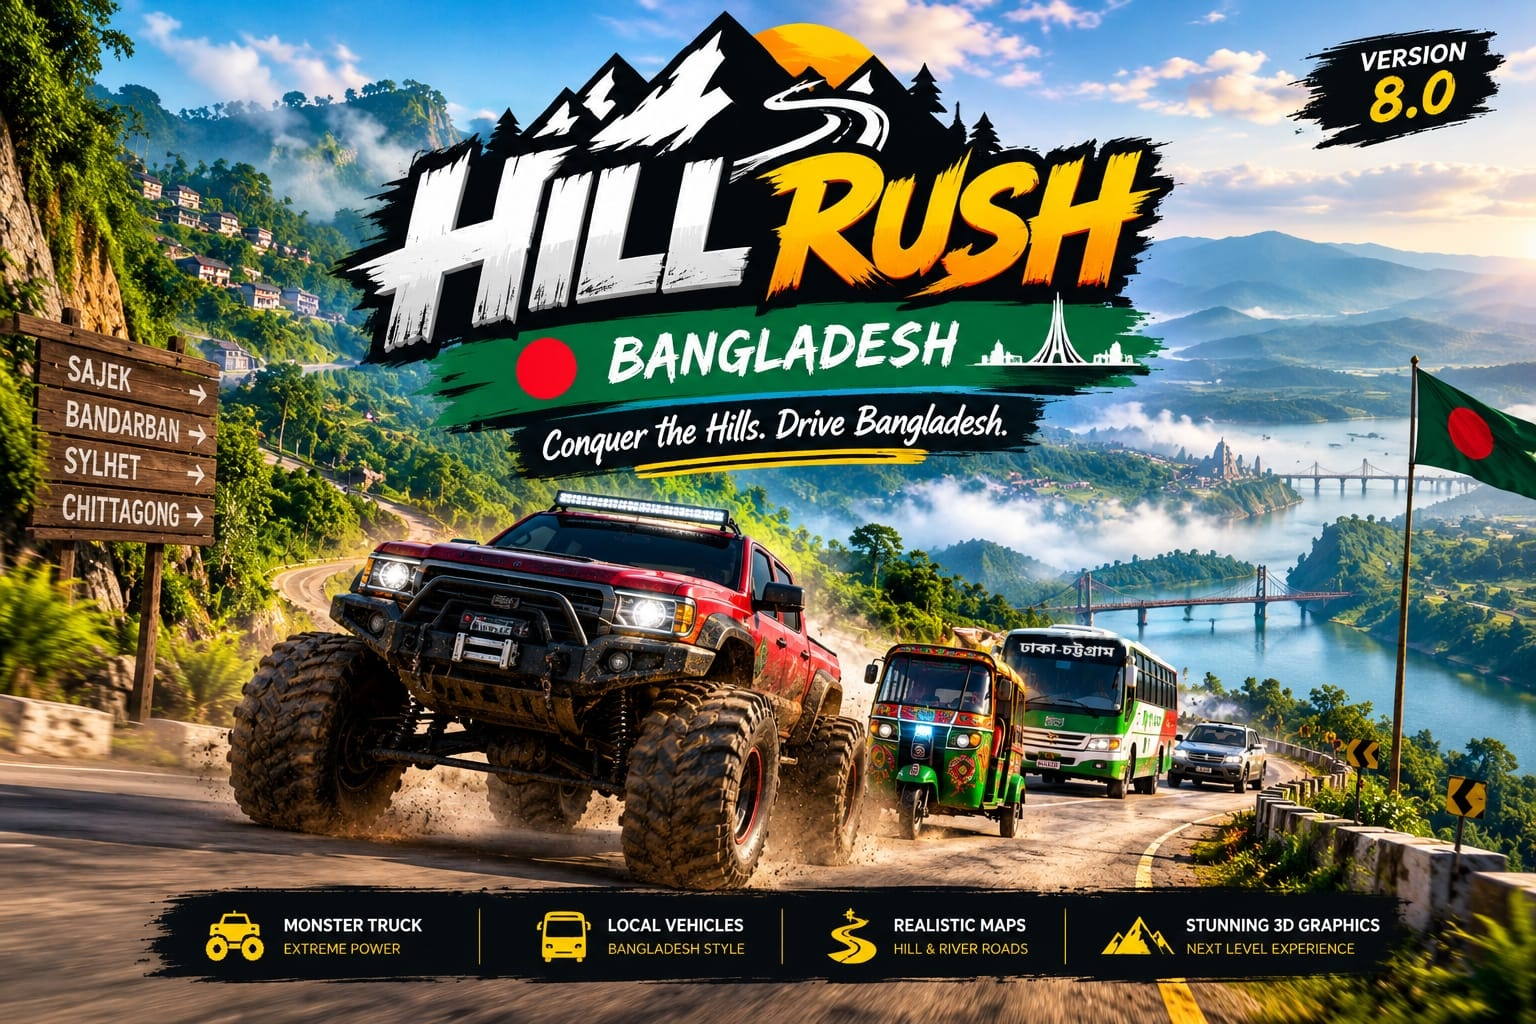
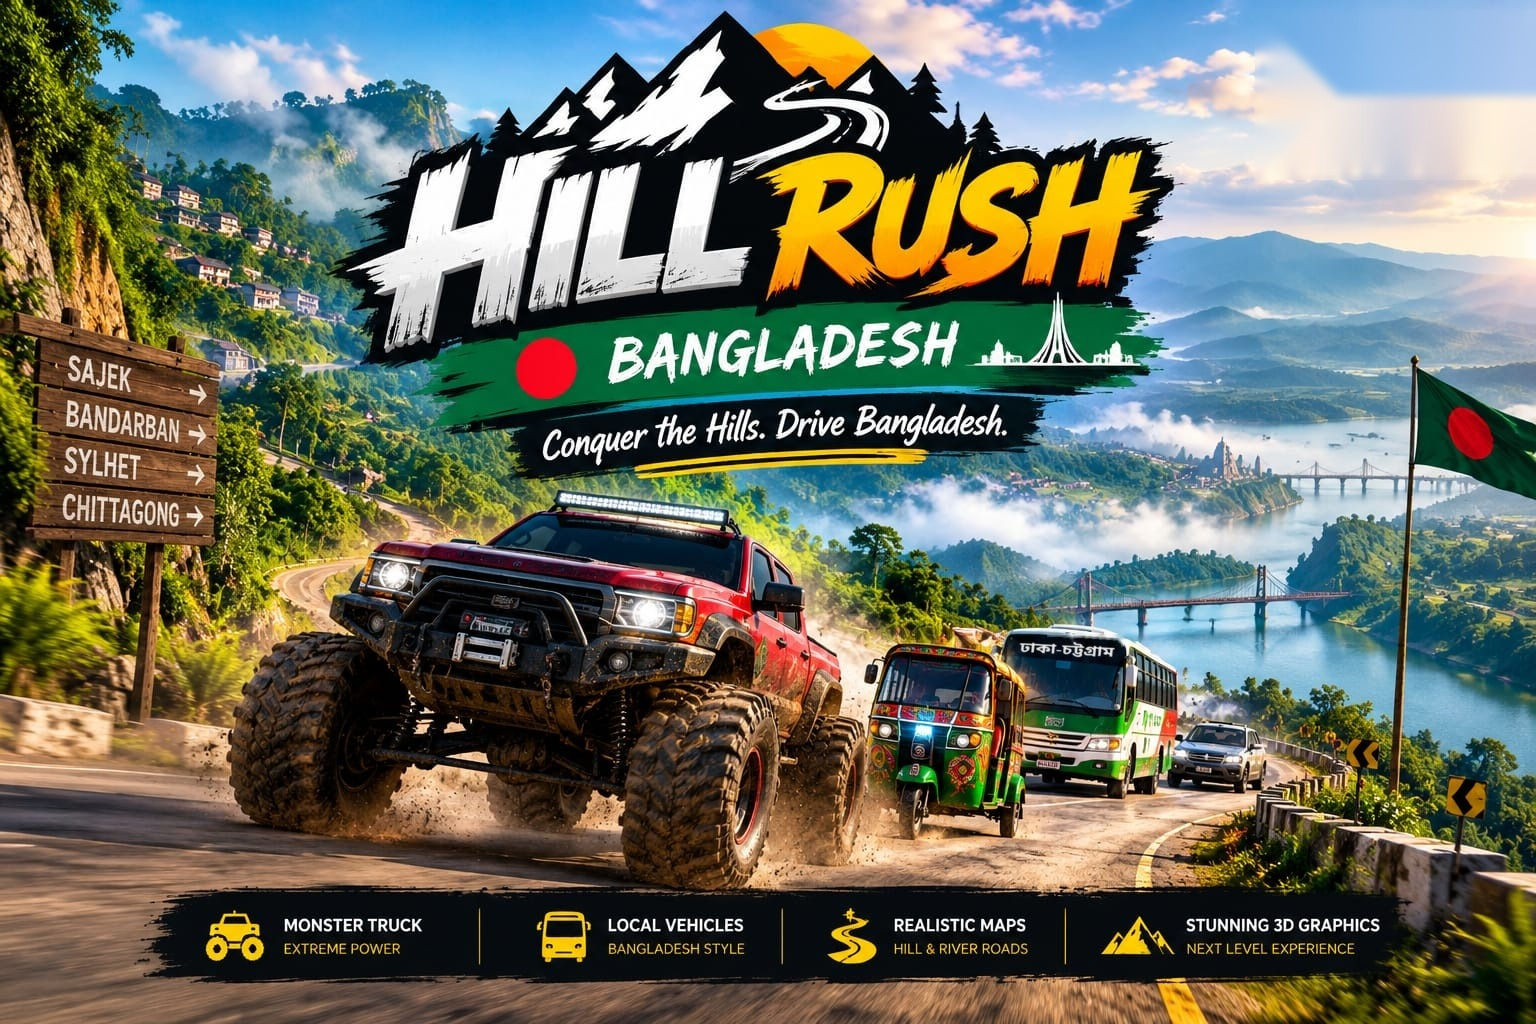
v12: চওড়া স্ক্রিনে ছবি ১২% বড়, পাশের ঝাপসা ভাব কমানো, পুরনো VERSION ব্যাজ সরানো
Claude-Session: https://claude.ai/code/session_01BE2JL8JqMqcX69xb2EwDrm

Changed region(s): [[0.8125, 0.0312, 1.0, 0.1875]]

diff --git a/style.css b/style.css
@@ -3379,3 +3379,22 @@ body #mainMenu .developerPlaque .supervisorName{
     z-index:1 !important;
   }
 }
+
+/* V12b — চওড়া স্ক্রিনে ছবি ১২% বড় (নিচ থেকে বসানো), তাই দুই পাশের বাড়তি অংশ কমে যায়।
+   কাটা পড়ে শুধু উপরের একটু আকাশ; নিচের ফিচার-স্ট্রিপ আর লোগোর লেখা পুরোটা থাকে। */
+@media(orientation:landscape) and (min-aspect-ratio:17/10){
+  #mainMenu .menuStage{
+    width:calc(1.5*112vh) !important;
+    height:112vh !important;
+    top:auto !important;bottom:0 !important;
+    left:50% !important;
+    transform:translateX(-50%) !important;
+    --sw:calc(1.5*112vh);
+  }
+  #mainMenu:after{
+    background:url("home_bg_wide.jpg") center bottom/auto 112vh no-repeat !important;
+  }
+  #mainMenu:before{ /* ছবির নিচের দিকের সাথে মিলিয়ে বেস লেয়ার */
+    background:url("home_bg.jpg") center bottom/cover no-repeat !important;
+  }
+}

diff --git a/CHANGELOG.md b/CHANGELOG.md
@@ -95,4 +95,5 @@ v10 থেকে যা বদলেছে:
 v11 থেকে যা বদলেছে:
 - **পুরো স্ক্রিন ভরা:** আগে চওড়া স্ক্রিনে ছবি ছোট হয়ে মাঝখানে থাকত আর দুই পাশে ঝাপসা ফাঁকা জায়গা দেখা যেত। এখন ছবির দুই পাশ স্বাভাবিকভাবে বাড়ানো (`home_bg_wide.jpg`), তাই পুরো স্ক্রিন ছবিতে ভরা।
 - মাঝের মূল ব্যানার, বাটন আর credit box আগের মতোই একই জায়গায়, নিচের ফিচার-স্ট্রিপ কাটে না।
-
+- **দুই পাশের ঝাপসা ভাব কমানো হয়েছে:** চওড়া স্ক্রিনে ছবি ১২% বড় করে বসানো, তাই বাড়তি পাশ অনেক কম আর পরিষ্কার।
+- **পুরনো "VERSION 8.0" ব্যাজ ছবি থেকে সরানো** (এটা আমাদের ভার্সনের সাথে মিলত না)।
